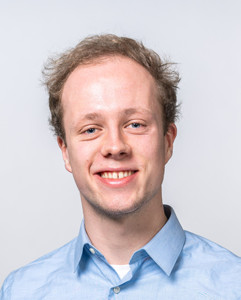
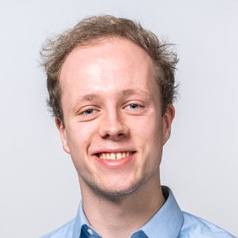
updates

diff --git a/README.md b/README.md
@@ -28,6 +28,7 @@ address:
 ```
 
 Pictures live in the `images/people/` folder, the cv in the `pdf/cv/` folder and you can choose your position from 4 categories `postdoc`, `phdstudent`,`master`, `visiting`, `others`.
+For a proper rendering, the image should be 1x1 aspect ratio with less than 400px wide.
 
 ## Add publications
 
@@ -71,4 +72,4 @@ Short news (one line) are display on the frontpage. You can add your own news by
 
 ## Acknowledgements
 
-The structure of the website is heavily influenced by the [Kording lab page](http://kordinglab.com/) with a twist of [Bootstrap 4.0](https://getbootstrap.com/).
+The structure of the website is made with Jekyll and heavily influenced by the [Kording lab page](http://kordinglab.com/) with a twist of [Bootstrap 4.0](https://getbootstrap.com/).
